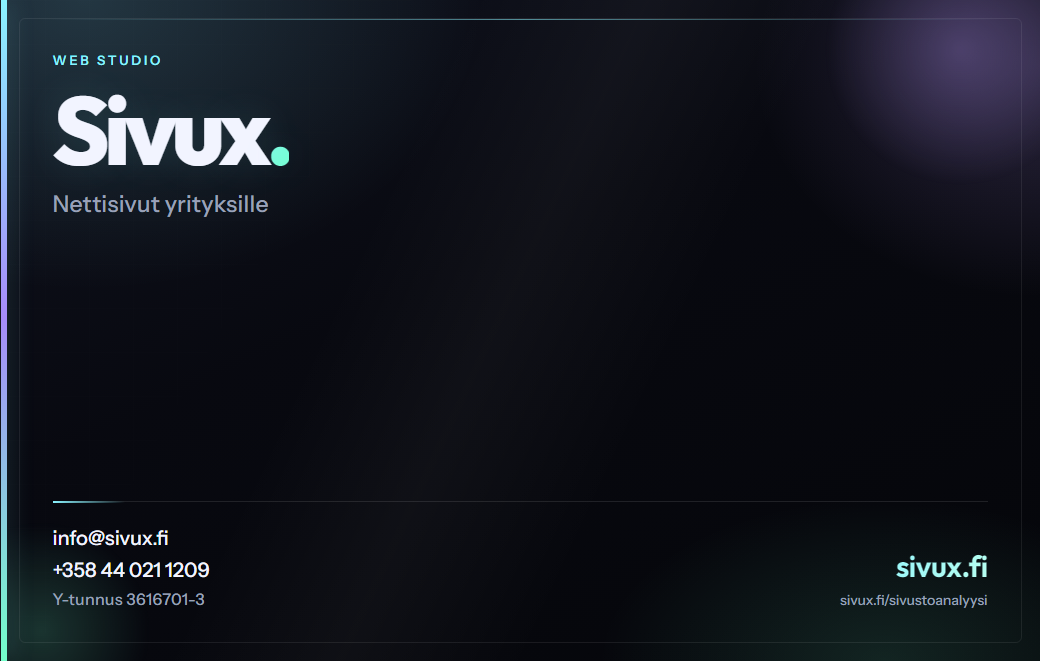
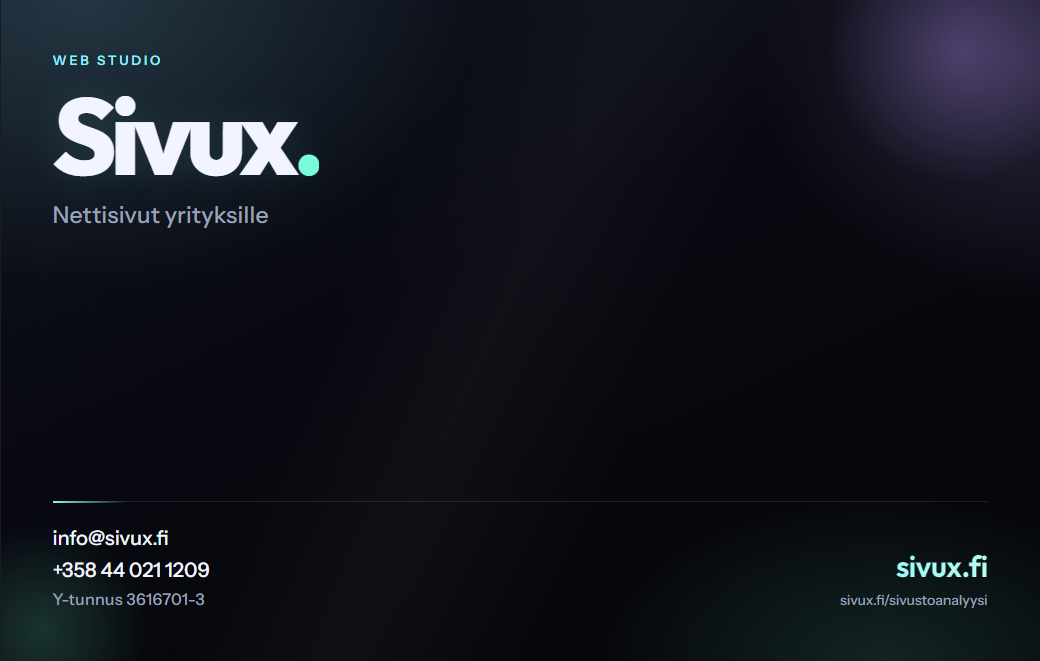
Poista kayntikortin ulkokehykset ja tasaa etu/taka-koot.

Changed region(s): [[0.0, 0.0, 0.3077, 1.0]]

diff --git a/print/kayntikortti.html b/print/kayntikortti.html
@@ -55,7 +55,10 @@
       background: #07070d;
       color: var(--text);
       -webkit-font-smoothing: antialiased;
-      box-shadow: 0 24px 60px rgba(0, 0, 0, 0.45);
+      box-shadow: none;
+      border: none;
+      outline: none;
+      flex-shrink: 0;
     }
 
     .card-bg {
@@ -114,34 +117,6 @@
       pointer-events: none;
     }
 
-    .card-frame {
-      position: absolute;
-      inset: 18px;
-      border: 1px solid rgba(255, 255, 255, 0.08);
-      border-radius: 6px;
-      pointer-events: none;
-    }
-
-    .card-frame::after {
-      content: "";
-      position: absolute;
-      left: 22px;
-      right: 22px;
-      top: 0;
-      height: 1px;
-      background: linear-gradient(90deg, transparent, rgba(138, 243, 255, 0.55), transparent);
-    }
-
-    .card-accent {
-      position: absolute;
-      left: 0;
-      top: 0;
-      bottom: 0;
-      width: 6px;
-      background: linear-gradient(180deg, var(--accent) 0%, #a78bfa 48%, var(--accent-3) 100%);
-      box-shadow: 0 0 24px rgba(138, 243, 255, 0.35);
-    }
-
     .card-inner {
       position: relative;
       z-index: 2;
@@ -164,7 +139,7 @@
     .brand {
       font-family: "Outfit", system-ui, sans-serif;
       font-weight: 800;
-      font-size: 96px;
+      font-size: 108px;
       letter-spacing: -0.06em;
       line-height: 0.92;
       color: var(--text);
@@ -258,10 +233,6 @@
       margin-bottom: 20px;
     }
 
-    .card--back .brand {
-      font-size: 108px;
-    }
-
     .card--back .tagline {
       margin-top: 22px;
       max-width: none;
@@ -295,20 +266,6 @@
       background: linear-gradient(135deg, var(--accent), var(--accent-3));
       box-shadow: 0 0 12px rgba(138, 243, 255, 0.7);
     }
-
-    .card--back .card-accent {
-      width: 100%;
-      height: 5px;
-      top: auto;
-      bottom: 0;
-      background: linear-gradient(90deg, var(--accent), #a78bfa, var(--accent-3));
-      box-shadow: 0 0 28px rgba(138, 243, 255, 0.3);
-    }
-
-    .card--back .card-frame::after {
-      top: auto;
-      bottom: 0;
-    }
   </style>
 </head>
 <body>
@@ -319,8 +276,6 @@
     <div class="card-orb card-orb-a"></div>
     <div class="card-orb card-orb-b"></div>
     <div class="card-shine"></div>
-    <div class="card-accent"></div>
-    <div class="card-frame"></div>
     <div class="card-inner">
       <div>
         <p class="kicker">Web studio</p>
@@ -348,8 +303,6 @@
     <div class="card-orb card-orb-a"></div>
     <div class="card-orb card-orb-b"></div>
     <div class="card-shine"></div>
-    <div class="card-accent"></div>
-    <div class="card-frame"></div>
     <div class="card-inner">
       <div>
         <div class="brand">Sivux<span>.</span></div>
